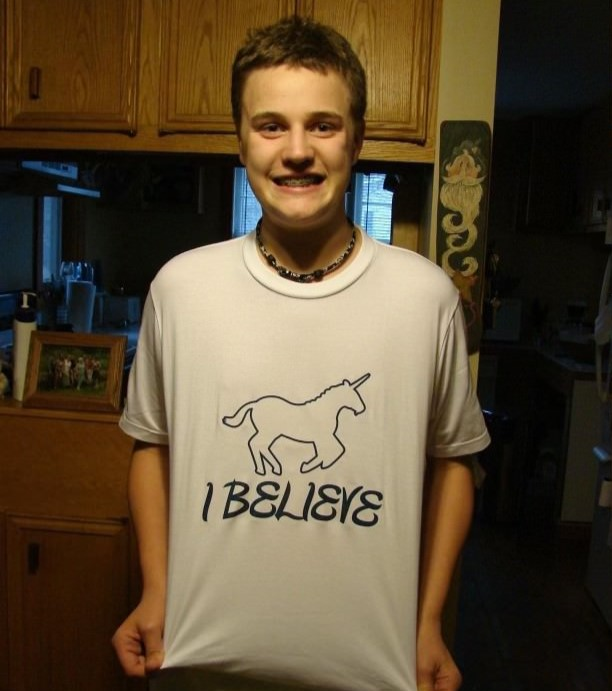
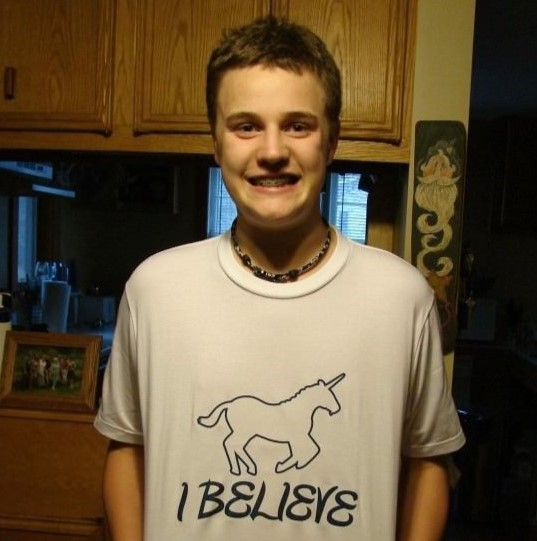
new photos

diff --git a/website.html b/website.html
@@ -229,7 +229,7 @@
   
           <figure>
             <figcaption>Matt</figcaption>
-            <img src="images/matt.jpg" alt="Matt" title="Groomsman" width="105" height="105">
+            <img src="images/matt2.jpg" alt="Matt" title="Groomsman" width="105" height="105">
           </figure>
   
           <figure>
